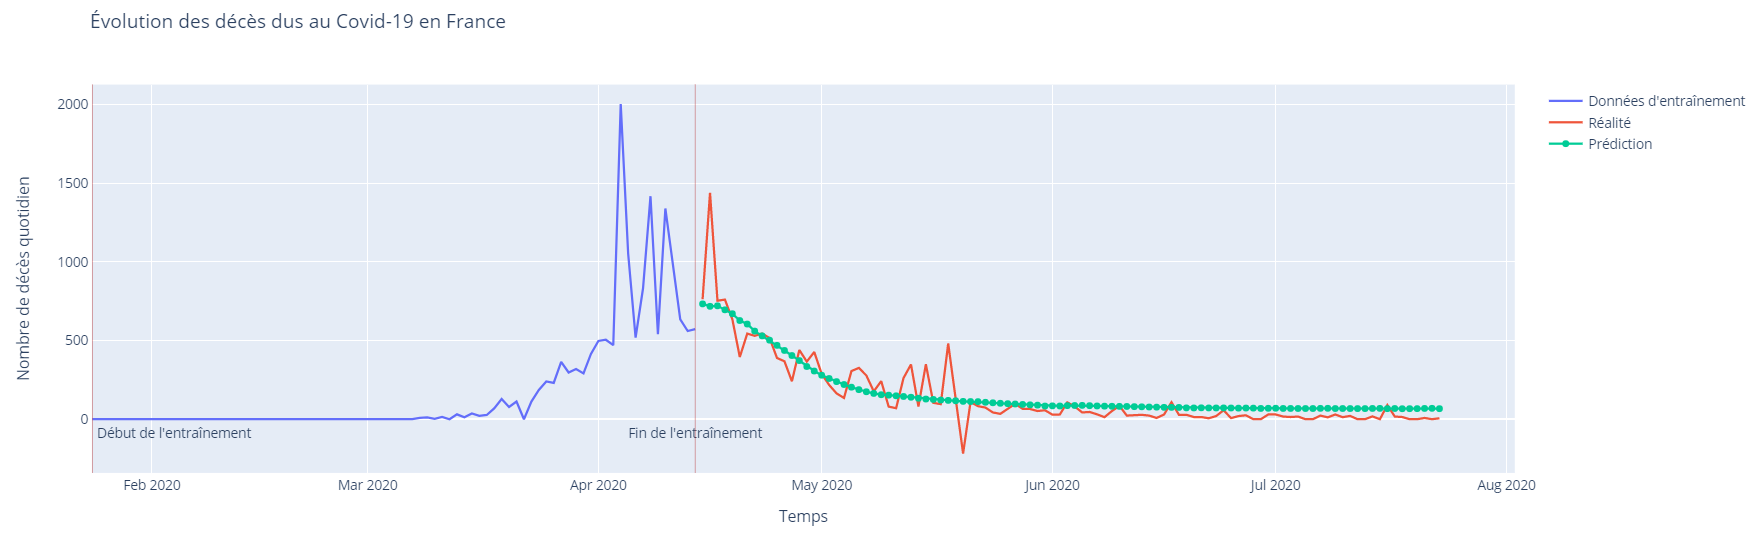
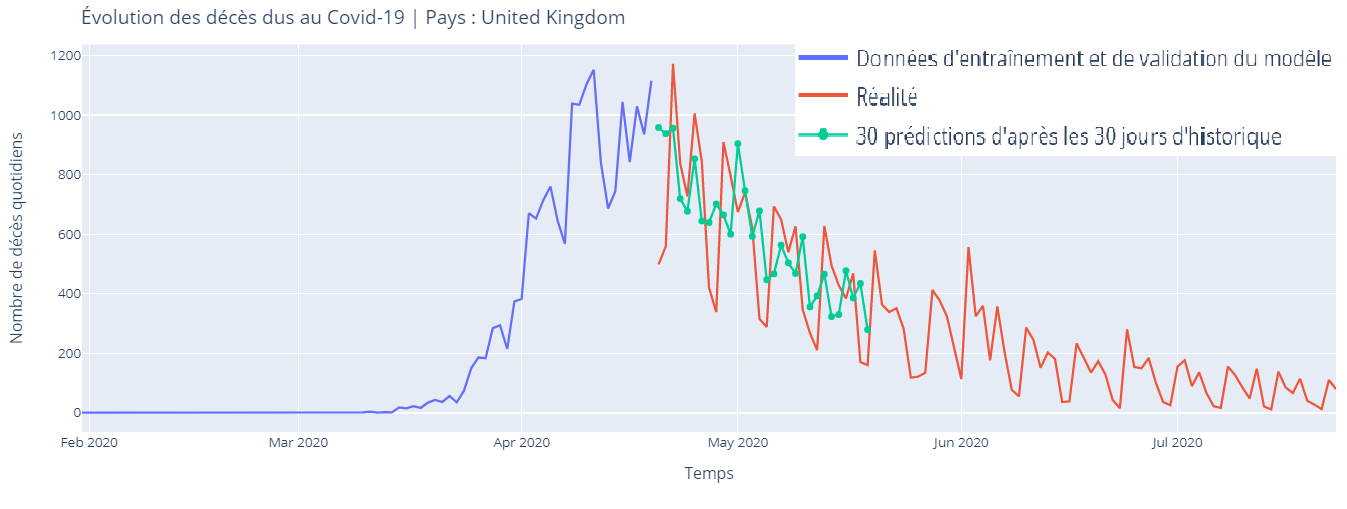
serie temporelle

diff --git a/index.html b/index.html
@@ -79,7 +79,9 @@
 					</header>
 					<div class="content">
 						<p>
-							<strong>Projet de régression</strong> sur le prix de vente de biens immobiliers. <br> <strong>Performance</strong> : 8 % d'erreur</p>
+							<strong>Projet de régression</strong> sur le prix de vente de biens immobiliers. <br>
+							L'objectif est d'estimer le prix de vente d'un bien immobilier en fonction de ses caractéristiques.<br>
+							<strong>Performance</strong> : 8 % d'erreur par rapport au prix de vente</p>
 						<ul class="feature-icons">
 							<li class="icon solid fa-brain">Machine Learning</li>
 							<li class="icon solid fa-calculator">Régression</li>
@@ -224,16 +226,19 @@
 					</header>
 					<div class="content">
 						<p>
-							<strong>Série temporelle multivariée</strong> pour prédire le nombre de décès dus au Covid-19 en France. <br>
-							L'objectif est de prédire le nombre de décès quotidien dans les 100 prochains jours en fonction de données des 50 jours prédédents.<br>
-							L'entraînement s'est fait sur les données de nombreux pays sur une période précédent une date fixe (mi-avril).<br>
-							Le test a ensuite été effectué sur les données de la France de mi-avril jusqu'à la fin des données disponibles.<br>
+							<strong>Série temporelle multivariée</strong> pour prédire le nombre de décès quotidiens dus au Covid-19. <br>
+							L'objectif est de <strong>prédire le nombre de décès quotidiens du mois suivant en fonction des données du mois actuel</strong> (nombre de nouveaux cas quotidiens, nombre de décès quotidiens et nombre de décès cumulés).<br>
+							Le modèle a été entraîné pour faire 30 jours de prédiction en fonction des données multivariées de 30 jours d'historique.<br>
 							<strong>Langage</strong> : Python <br>
 							<strong>Algorithme</strong> : Réseau de neurones récurrents (RNN) avec Keras<br>						
 						<ul class="feature-icons">
 							<li class="icon solid fa-brain">Machine Learning</li>
 							<li class="icon solid fa-chart-line">Série temporelle</li>
 						</ul>
+						Dans le graphique ci-dessous,<br>
+						L'entraînement et la validation se sont fait sur les données de nombreux pays jusqu'au 19 avril 2020.<br>
+						Le test a ensuite été effectué sur chaque pays (ici le Royaume-Uni) en donnant l'historique entre le 21 mars et le 19 avril 2020 (30 jours) et en comparant les prédictions et la réalité pour les 30 jours suivants (entre le 20 avril et le 19 juin 2020).<br>
+						On remarque que le modèle arrive bien à <strong>prédire la chute du nombre de décès quotidiens bien que ces derniers étaient en forte augmentation.</strong>
 						<span class="image main"><img src="images/pic04.png" alt="" /></span>
 						<!--
 						<ul class="actions">
